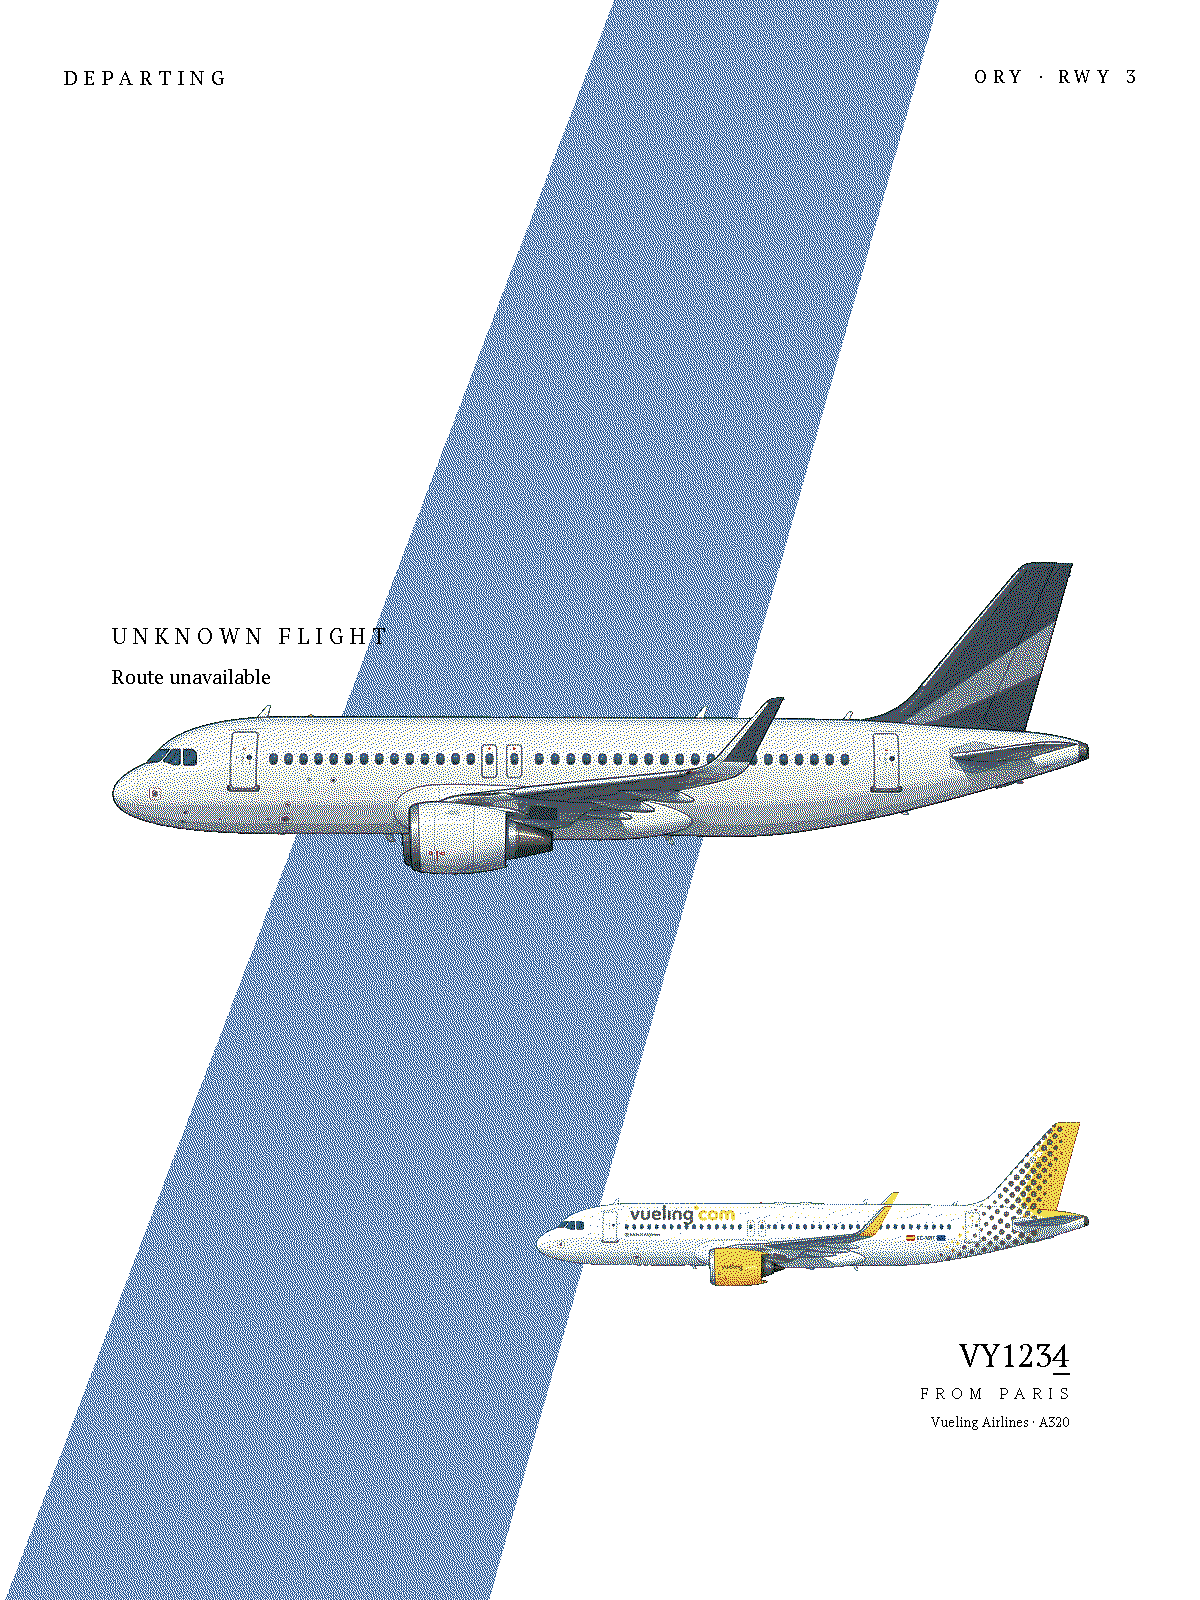
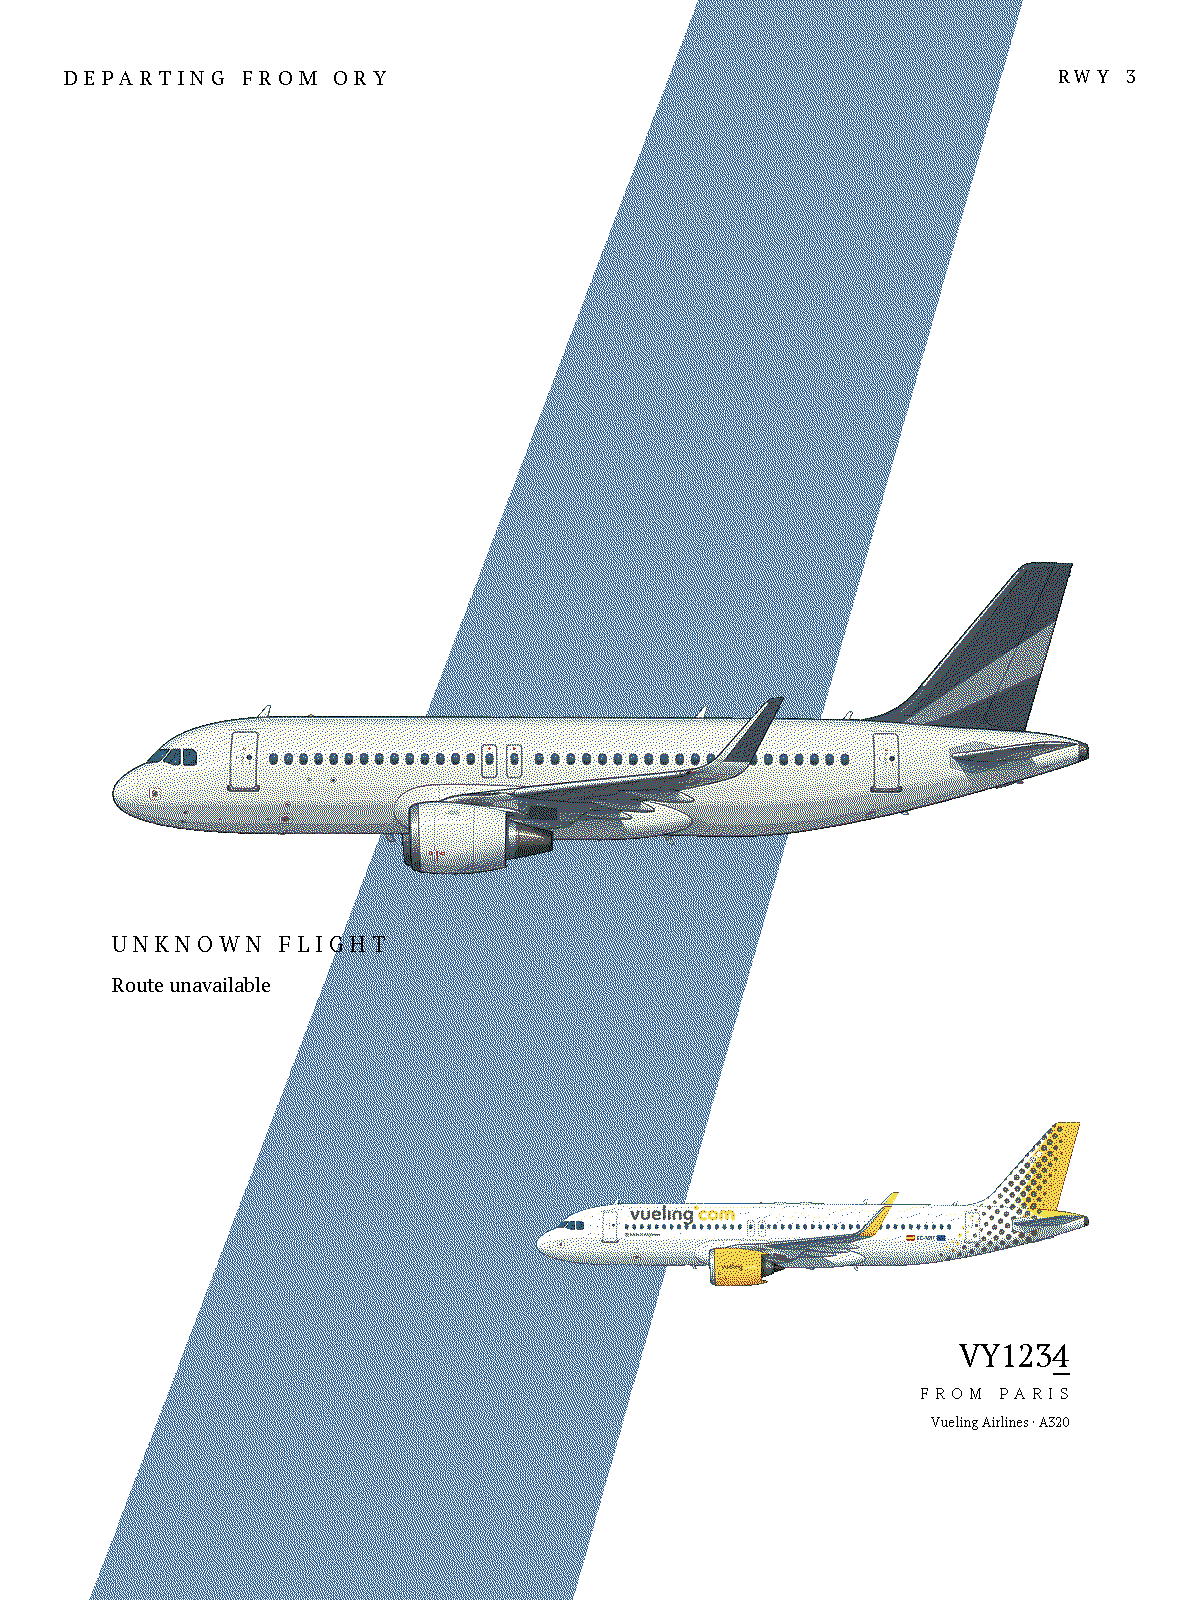
docs(spike-003): split the tag (ORY left, RWY 3 right) instead of merging whole
Developer's correction to round 9: keep ORY merged into the top-left
label, but keep a shorter separate "RWY 3" tag on the right instead of
the full "ORY · RWY 3". Measured: "RWY 3" alone starts 7pt further right
than the full tag did. That gain means BAND_SHIFT_FRAC=0.0 (the
reference's own unshifted position, no shift at all) clears both the
shorter tag and the below-illustration nose-aligned main text at once -
resolves round 9/10's conflict without needing the above-illustration
workaround. patched_draw_top_labels() now partitions the real
runway_tag_text() output on " · " rather than hardcoding either half.
Confirmed clean on black-flat, the tightest case throughout.

diff --git a/.planning/spikes/003-diagonal-band-theme/explore_full_composition.py b/.planning/spikes/003-diagonal-band-theme/explore_full_composition.py
@@ -64,14 +64,11 @@ TEST_PREV_ROUTE = {
 }
 
 # --- Band geometry, measured from the reference (trapezoid, not a parallelogram) ---
-# Round 9 (developer): un-merge the top labels again - RWY 3 goes back to
-# its own top-right tag - so the band needs to clear it once more, just
-# less drastically than round 3's -0.09: a smaller leftward shift keeps
-# more of round 7/8's rightward visual balance while still clearing the
-# tag's measured start (x_frac=0.8117) with a real margin. -0.07 puts the
-# band's top-right edge at 0.7823, a ~2.9pt margin. Still a pure
-# translation of the measured trapezoid, same width/shape.
-BAND_SHIFT_FRAC = -0.07
+# Round 11: with "RWY 3" alone on the right (see patched_draw_top_labels
+# below) instead of the full "ORY · RWY 3", no shift is needed at all -
+# the reference's own as-measured position already clears both
+# constraints. See that function's own comment for the numbers.
+BAND_SHIFT_FRAC = 0.0
 BAND_TOP_LEFT_FRAC = 0.5818 + BAND_SHIFT_FRAC
 BAND_TOP_RIGHT_FRAC = 0.8523 + BAND_SHIFT_FRAC
 BAND_BOT_LEFT_FRAC = max(0.0, 0.0742 + BAND_SHIFT_FRAC)
@@ -105,12 +102,17 @@ def make_patched_new_canvas(band_idx, dithered):
     return _patched
 
 
-# --- Round 7: merge the top-right runway tag into the top-left state
-# label - "DEPARTING FROM ORY · RWY 3" / "ARRIVING TO ORY · RWY 3" - so
-# nothing occupies the top-right corner and the band can shift right
-# without any collision to avoid there. Reuses the real
-# runway_tag_text()/STATE_LABEL_TEXT/draw_tracked_text()/LABEL_TRACKING_PX
-# - only the two separate strings become one, and only one run is drawn.
+# --- Round 11 (developer's correction to round 7/9): split the airport
+# code to the LEFT (merged with the state label - "DEPARTING FROM ORY" /
+# "ARRIVING TO ORY") and keep a SHORTER tag on the right ("RWY 3" alone,
+# not "ORY · RWY 3"). The shorter right-side tag starts much further
+# right (measured: 0.8817 vs the full tag's 0.8117 - a 7pt gain) than the
+# full tag did, which is what actually resolves round 9/10's conflict:
+# with this split, BAND_SHIFT_FRAC=0.0 (the reference's own unshifted,
+# as-measured position - no shift at all) clears BOTH the shorter tag
+# (2.9pt margin) AND the below-illustration nose-aligned main text (5pt
+# margin, verified against the precisely measured text-block right edge
+# of 0.265, not the earlier round's rough guess of 0.33) at once.
 _MERGED_LABEL_DIRECTION = {
     render.runway_config.STATE_DEPARTING: "FROM",
     render.runway_config.STATE_ARRIVING: "TO",
@@ -122,11 +124,17 @@ def patched_draw_top_labels(canvas, state, ink_idx, bg_idx, weight, runway_id=No
         runway_id = render.device_config.DEFAULT_RUNWAY_ID
     draw = ImageDraw.Draw(canvas)
     label_font = render._role_font(render.STATE_LABEL_FONT, weight)
+    tag_font = render._role_font(render.TOP_TAG_FONT, weight)
     direction = _MERGED_LABEL_DIRECTION[state]
-    tag_text = render.runway_tag_text(runway_id)
-    merged_text = "%s %s %s" % (render.STATE_LABEL_TEXT[state], direction, tag_text)
+    full_tag = render.runway_tag_text(runway_id)
+    airport_code, _sep, runway_part = full_tag.partition(" · ")
+
+    merged_text = "%s %s %s" % (render.STATE_LABEL_TEXT[state], direction, airport_code)
     render.draw_tracked_text(draw, (render.MARGIN, render.MARGIN), merged_text, label_font, ink_idx, render.LABEL_TRACKING_PX)
-    # No right-side tag drawn at all - the top-right corner is free.
+
+    tag_w = render._tracked_text_width(tag_font, runway_part, render.LABEL_TRACKING_PX)
+    tag_x = render.WIDTH - render.MARGIN - tag_w
+    render.draw_tracked_text(draw, (tag_x, render.MARGIN), runway_part, tag_font, ink_idx, render.LABEL_TRACKING_PX)
 
 
 # --- Text hierarchy, left-anchored, reference-inspired presentation over
@@ -237,32 +245,15 @@ def patched_draw_main_text_block(canvas, flight, state, route, main_placement, i
     route_font = render._role_font(ROUTE_LINE_FONT, weight)
     airline_font = render._role_font(AIRLINE_LINE_FONT, weight)
 
-    # Round 10 (developer): round 8 moved this block back below the
-    # illustration once round 7 freed the band to shift right - but round
-    # 9 un-merged the top labels again (band shifted back left, -0.07) AND
-    # nose-aligned this block's left edge (content[0] instead of MARGIN),
-    # and that combination reopens the collision round 8 had just closed:
-    # verified numerically, the band's left edge at this block's
-    # below-illustration height (~52% canvas height) sits at ~24.5% width,
-    # while the nose-aligned block's own right edge reaches ~33% - a real
-    # ~8pt overlap, confirmed visually on black-flat (text genuinely cut).
-    # There is no single BAND_SHIFT_FRAC that clears both the restored tag
-    # (needs the band pushed left) and this below-position nose-aligned
-    # text (needs the band pushed right) at once - the trapezoid's own
-    # shape makes the two constraints mutually exclusive here. Back above
-    # the illustration (round 5's fuselage-visual-top anchor, not
-    # content[1]) resolves both at once - verified numerically, band left
-    # edge stays 38-46% across that height range, clear of the
-    # nose-aligned block's ~35% max extent.
-    total_h = 0
-    if number_text:
-        total_h += draw.textbbox((0, 0), number_text, font=num_font, anchor="la")[3] + DASH_GAP + 2 + DASH_GAP + 4
-    if tracked_text:
-        total_h += render._tracked_text_bbox(route_font, (0, 0), tracked_text, render.LABEL_TRACKING_PX)[3] + 12
-    total_h += draw.textbbox((0, 0), plain_text, font=airline_font, anchor="la")[3]
-
-    fuselage_top_y = _fuselage_visual_top_y(route, flight.get("aircraft_type"), main_placement)
-    y = fuselage_top_y - ABOVE_ILLUSTRATION_GAP_PX - total_h
+    # Round 11 (developer's correction): back below the illustration once
+    # more. Splitting the top-right tag down to "RWY 3" alone (see
+    # patched_draw_top_labels) frees enough room that BAND_SHIFT_FRAC=0.0
+    # clears both the shorter tag AND this below-position, nose-aligned
+    # block at once (verified numerically before switching back - see
+    # that constant's own comment for the exact margins) - round 9/10's
+    # conflict doesn't reopen this time. Real production anchor again:
+    # MAIN_TEXT_GAP_PX below the illustration's opaque bottom edge.
+    y = main_placement.content[3] + render.MAIN_TEXT_GAP_PX
     first_bbox = None
 
     if number_text:
@@ -359,6 +350,7 @@ def patched_draw_previous_text_block(canvas, flight, state, route, prev_placemen
 def main():
     orig_draw_main_text_block = render.draw_main_text_block
     orig_draw_previous_text_block = render.draw_previous_text_block
+    orig_draw_top_labels = render.draw_top_labels
     candidates = [
         ("ref-band-blue-dithered", pf.IDX_BLUE, True),
         ("ref-band-blue-flat", pf.IDX_BLUE, False),
@@ -369,9 +361,7 @@ def main():
     try:
         render.draw_main_text_block = patched_draw_main_text_block
         render.draw_previous_text_block = patched_draw_previous_text_block
-        # Round 9: top labels un-merged - the real, already-shipped
-        # draw_top_labels() (state label + separate tracked runway tag)
-        # runs unpatched again.
+        render.draw_top_labels = patched_draw_top_labels
         for label, band_idx, dithered in candidates:
             pf.new_canvas = make_patched_new_canvas(band_idx, dithered)
             canvas = render.build_canvas(
@@ -391,6 +381,7 @@ def main():
     finally:
         render.draw_main_text_block = orig_draw_main_text_block
         render.draw_previous_text_block = orig_draw_previous_text_block
+        render.draw_top_labels = orig_draw_top_labels
         pf.new_canvas = _TRUE_ORIG_NEW_CANVAS
 
 

diff --git a/.planning/spikes/003-diagonal-band-theme/explore_tiers.py b/.planning/spikes/003-diagonal-band-theme/explore_tiers.py
@@ -30,9 +30,11 @@ TIERS = [
 def main():
     orig_draw_main_text_block = render.draw_main_text_block
     orig_draw_previous_text_block = render.draw_previous_text_block
+    orig_draw_top_labels = render.draw_top_labels
     try:
         render.draw_main_text_block = comp.patched_draw_main_text_block
         render.draw_previous_text_block = comp.patched_draw_previous_text_block
+        render.draw_top_labels = comp.patched_draw_top_labels
         pf.new_canvas = comp.make_patched_new_canvas(pf.IDX_BLUE, True)
         for label, route in TIERS:
             canvas = render.build_canvas(
@@ -52,6 +54,7 @@ def main():
     finally:
         render.draw_main_text_block = orig_draw_main_text_block
         render.draw_previous_text_block = orig_draw_previous_text_block
+        render.draw_top_labels = orig_draw_top_labels
         pf.new_canvas = comp._TRUE_ORIG_NEW_CANVAS
 
 

diff --git a/.planning/spikes/003-diagonal-band-theme/README.md b/.planning/spikes/003-diagonal-band-theme/README.md
@@ -9,7 +9,7 @@ validates: |
   build_canvas() pipeline, then at least one reads well on a 6-colour
   e-ink panel, passes the real _assert_legal_palette() background-
   dominance guard rail, and does not collide with any text.
-verdict: PENDING - round 9 restores the tag/nose-aligns text, caught and fixed a real conflict this reopened (main text moved back above), awaiting developer reaction
+verdict: PENDING - round 11 splits the tag (ORY left, RWY 3 right) instead of merging it whole, resolving round 9/10's conflict with no shift needed at all, awaiting developer reaction
 related: ["001-panel-theme-colours", "002-small-labels-and-white-rhythm"]
 tags: [render, theme, diagonal-band, layout, e-ink, palette-guard-rail]
 ---
@@ -330,6 +330,27 @@ constraints (band's left edge stays 38-46% across that height range,
 clear of the nose-aligned block's ~35% max extent), then confirmed
 visually on both `blue-dithered` and `black-flat`. Flagged explicitly
 rather than silently reverting the developer's own round-8 request.
+
+**Round 11 - developer's correction: split the tag, not merge it whole.**
+Round 9 restored the full "ORY · RWY 3" tag and had to move the main
+text back above the aircraft to avoid the collision it reopened. The
+developer's actual intent was different: keep "ORY" merged into the
+top-left label ("DEPARTING FROM ORY" / "ARRIVING TO ORY"), but keep a
+SHORTER separate tag on the right - "RWY 3" alone. Measured: "RWY 3"
+alone starts at `x_frac=0.8817` vs. the full tag's `0.8117` - a 7-point
+gain. With that gain, `BAND_SHIFT_FRAC=0.0` (the reference's own
+unshifted, as-measured position, no shift needed at all) clears BOTH the
+shorter tag (2.9pt margin) AND the below-illustration, nose-aligned main
+text (5pt margin, checked against the precisely measured text-block
+right edge of 0.265 - not the earlier rounds' rough 0.33 guess) at once.
+Main text moved back below the illustration (round 11 supersedes round
+10's above-position workaround, which is no longer needed).
+`patched_draw_top_labels()` now draws two separate tracked runs -
+`full_tag.partition(" · ")` splits the real `runway_tag_text()` output
+into the airport code (goes left) and the runway part (stays right,
+still its own `TOP_TAG_FONT`-sized, right-aligned run) - not a hardcoded
+re-derivation of either string. Confirmed clean on `black-flat` (the
+tightest case throughout this whole exploration).
 
 **Still open:**
 - This entire spike is screen-preview only, per this project's own D-13
